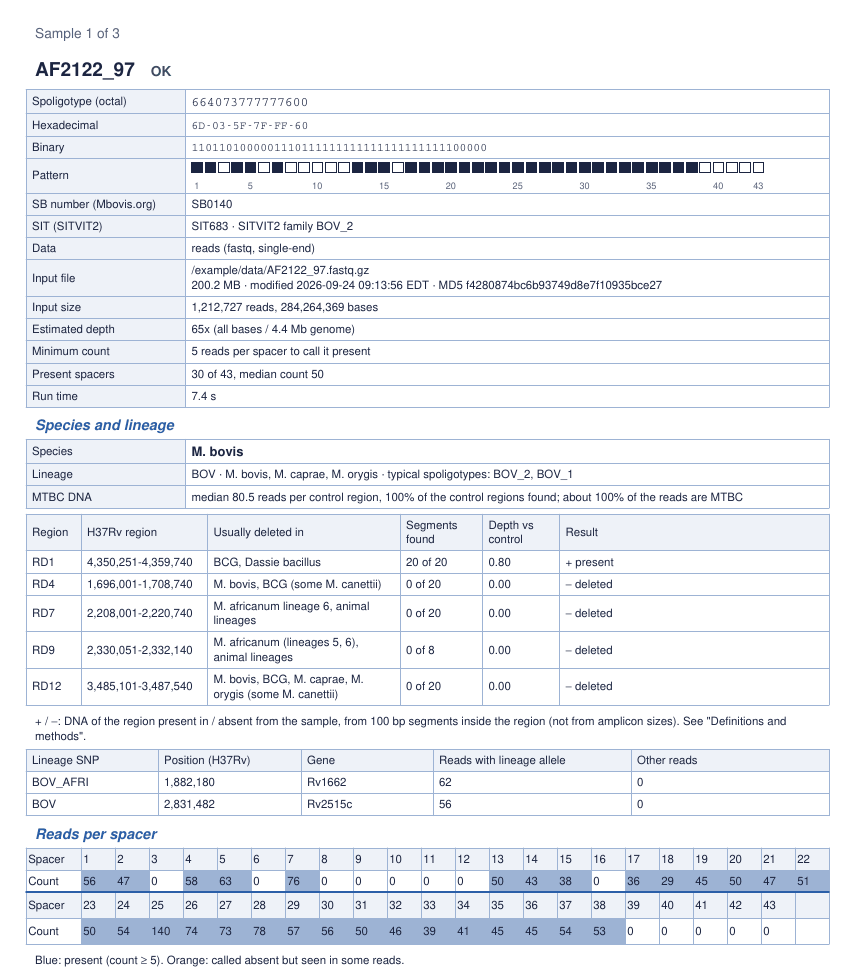
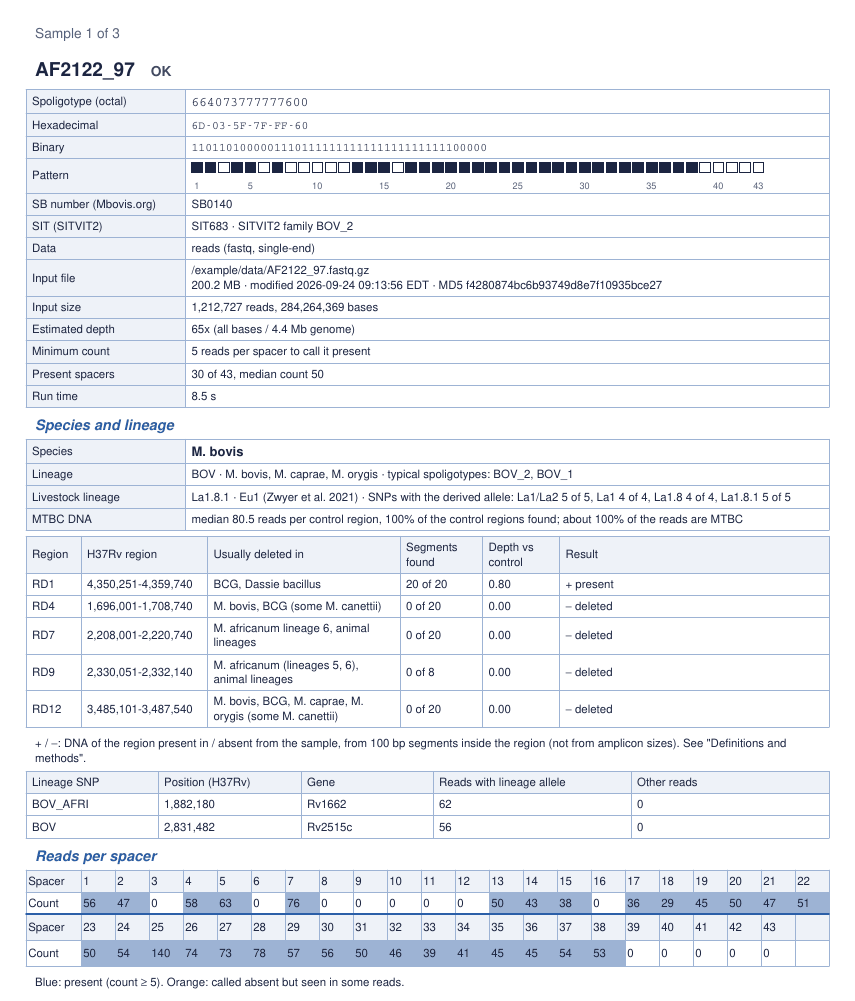
Example report, screenshots and expected results regenerated with 0.8.0; PDF wording

diff --git a/spoligotyper/pdf.py b/spoligotyper/pdf.py
@@ -419,7 +419,7 @@ def definitions_section(run):
         ('Livestock lineage',
          'Lineage of the livestock-associated MTBC after Zwyer et al. (2021): La1 (M. bovis), La2 (M. caprae), La3 '
          '(M. orygis), and the La1 sublineages La1.1 to La1.8, with their former names (e.g. La1.8.1: clonal complex '
-         'Eu1; BCG belongs to La1.2). From {} of the SNPs marked as markers in the extended data of the paper (4 or 5 '
+         'Eu1; BCG belongs to La1.2). From {} of the marker SNPs of the extended data of the paper (4 or 5 '
          'per group), counted as above; a group is called when at least 2 of its SNPs carry the derived allele, as in '
          'the KvarQ test suite of the paper. La2 and La3 tell M. caprae from M. orygis, which have the same RD '
          'profile.'.format(len(livestock.read_barcode()))),
